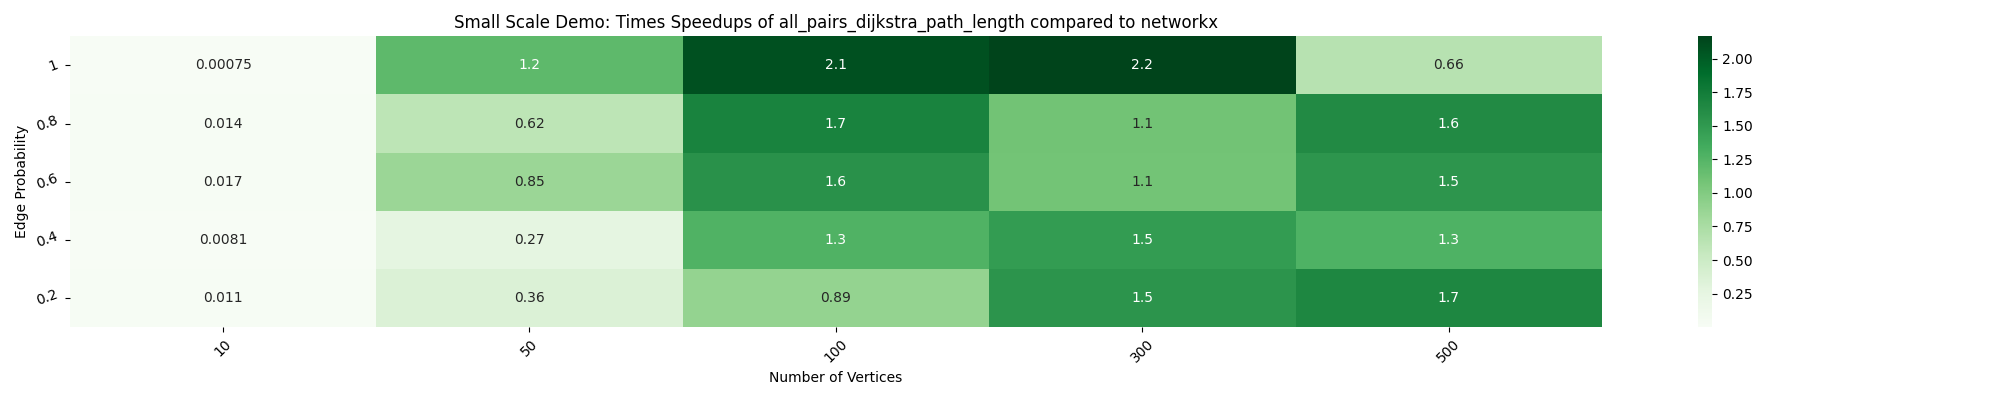
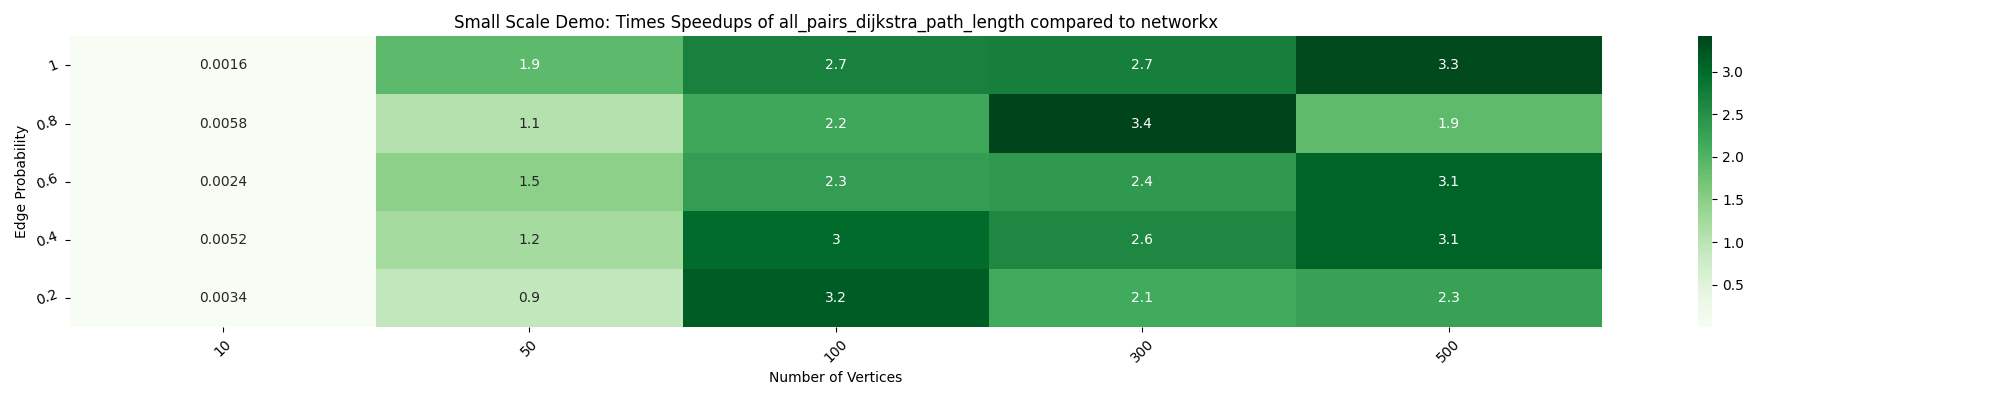
added chunking in all_pairs_node_connectivity, added benchmarks, fixed an if-else statement, added and updated heatmaps(no speedups for all_pairs_shortest_path_length)

diff --git a/nx_parallel/algorithms/connectivity/connectivity.py b/nx_parallel/algorithms/connectivity/connectivity.py
@@ -7,13 +7,14 @@ from networkx.algorithms.flow import build_residual_network
 from networkx.algorithms.connectivity.utils import build_auxiliary_node_connectivity
 from networkx.algorithms.connectivity.connectivity import local_node_connectivity
 from joblib import Parallel, delayed
+import nx_parallel as nxp
 
 __all__ = [
     "all_pairs_node_connectivity",
 ]
 
 
-def all_pairs_node_connectivity(G, nbunch=None, flow_func=None):
+def all_pairs_node_connectivity(G, nbunch=None, flow_func=None, get_chunks="chunks"):
     if hasattr(G, "graph_object"):
         G = G.graph_object
 
@@ -35,17 +36,27 @@ def all_pairs_node_connectivity(G, nbunch=None, flow_func=None):
     R = build_residual_network(H, "capacity")
     kwargs = {"flow_func": flow_func, "auxiliary": H, "residual": R}
 
-    def _compute_local_node_connectivity(u, v):
-        K = local_node_connectivity(G, u, v, **kwargs)
-        return u, v, K
+    def _process_pair_chunk(pairs_chunk):
+        return [
+            (u, v, local_node_connectivity(G, u, v, **kwargs)) for u, v in pairs_chunk
+        ]
 
-    results = Parallel(n_jobs=-1)(
-        delayed(_compute_local_node_connectivity)(u, v) for u, v in iter_func(nbunch, 2)
+    pairs = list(iter_func(nbunch, 2))
+    total_cores = nxp.cpu_count()
+    if get_chunks == "chunks":
+        num_in_chunk = min(len(pairs) // total_cores, 10)
+        pairs_chunks = nxp.chunks(pairs, num_in_chunk)
+    else:
+        pairs_chunks = get_chunks(pairs)
+
+    paths_chunk_generator = (
+        delayed(_process_pair_chunk)(pairs_chunk) for pairs_chunk in pairs_chunks
     )
 
-    for u, v, K in results:
-        all_pairs[u][v] = K
-        if not directed:
-            all_pairs[v][u] = K
-
+    for path_chunk in Parallel(n_jobs=total_cores)(paths_chunk_generator):
+        for path in path_chunk:
+            u, v, k = path
+            all_pairs[u][v] = k
+            if not directed:
+                all_pairs[v][u] = k
     return all_pairs

diff --git a/nx_parallel/algorithms/shortest_paths/weighted.py b/nx_parallel/algorithms/shortest_paths/weighted.py
@@ -41,10 +41,10 @@ def all_pairs_dijkstra(G, cutoff=None, weight="weight", get_chunks="chunks"):
     total_cores = nxp.cpu_count()
 
     if get_chunks == "chunks":
-        node_chunks = get_chunks(nodes)
-    else:
         num_in_chunk = max(len(nodes) // total_cores, 1)
         node_chunks = nxp.chunks(nodes, num_in_chunk)
+    else:
+        node_chunks = get_chunks(nodes)
 
     paths_chunk_generator = (
         delayed(_process_node_chunk)(node_chunk) for node_chunk in node_chunks
@@ -82,10 +82,10 @@ def all_pairs_dijkstra_path_length(
     total_cores = nxp.cpu_count()
 
     if get_chunks == "chunks":
-        node_chunks = get_chunks(nodes)
-    else:
         num_in_chunk = max(len(nodes) // total_cores, 1)
         node_chunks = nxp.chunks(nodes, num_in_chunk)
+    else:
+        node_chunks = get_chunks(nodes)
 
     paths_chunk_generator = (
         delayed(_process_node_chunk)(node_chunk) for node_chunk in node_chunks
@@ -116,10 +116,10 @@ def all_pairs_dijkstra_path(G, cutoff=None, weight="weight", get_chunks="chunks"
     total_cores = nxp.cpu_count()
 
     if get_chunks == "chunks":
-        node_chunks = get_chunks(nodes)
-    else:
         num_in_chunk = max(len(nodes) // total_cores, 1)
         node_chunks = nxp.chunks(nodes, num_in_chunk)
+    else:
+        node_chunks = get_chunks(nodes)
 
     paths_chunk_generator = (
         delayed(_process_node_chunk)(node_chunk) for node_chunk in node_chunks
@@ -150,10 +150,10 @@ def all_pairs_bellman_ford_path_length(G, weight="weight", get_chunks="chunks"):
     total_cores = nxp.cpu_count()
 
     if get_chunks == "chunks":
-        node_chunks = get_chunks(nodes)
-    else:
         num_in_chunk = max(len(nodes) // total_cores, 1)
         node_chunks = nxp.chunks(nodes, num_in_chunk)
+    else:
+        node_chunks = get_chunks(nodes)
 
     path_lengths_chunk_generator = (
         delayed(_process_node_chunk)(node_chunk) for node_chunk in node_chunks

diff --git a/nx_parallel/algorithms/approximation/connectivity.py b/nx_parallel/algorithms/approximation/connectivity.py
@@ -2,13 +2,14 @@
 import itertools
 from joblib import Parallel, delayed
 from networkx.algorithms.approximation.connectivity import local_node_connectivity
+import nx_parallel as nxp
 
 __all__ = [
     "all_pairs_node_connectivity",
 ]
 
 
-def all_pairs_node_connectivity(G, nbunch=None, cutoff=None):
+def all_pairs_node_connectivity(G, nbunch=None, cutoff=None, get_chunks="chunks"):
     """The parallel computation is implemented by computing the
     `local_node_connectivity` for all nodes in `G`, concurrently
     on different cores.
@@ -32,17 +33,28 @@ def all_pairs_node_connectivity(G, nbunch=None, cutoff=None):
 
     all_pairs = {n: {} for n in nbunch}
 
-    def _compute_local_node_connectivity(u, v):
-        k = local_node_connectivity(G, u, v, cutoff=cutoff)
-        return u, v, k
+    def _process_pair_chunk(pairs_chunk):
+        return [
+            (u, v, local_node_connectivity(G, u, v, cutoff=cutoff))
+            for u, v in pairs_chunk
+        ]
 
-    results = Parallel(n_jobs=-1)(
-        delayed(_compute_local_node_connectivity)(u, v) for u, v in iter_func(nbunch, 2)
+    pairs = list(iter_func(nbunch, 2))
+    total_cores = nxp.cpu_count()
+    if get_chunks == "chunks":
+        num_in_chunk = min(len(pairs) // total_cores, 10)
+        pairs_chunks = nxp.chunks(pairs, num_in_chunk)
+    else:
+        pairs_chunks = get_chunks(pairs)
+
+    paths_chunk_generator = (
+        delayed(_process_pair_chunk)(pairs_chunk) for pairs_chunk in pairs_chunks
     )
 
-    for u, v, k in results:
-        all_pairs[u][v] = k
-        if not directed:
-            all_pairs[v][u] = k
-
+    for path_chunk in Parallel(n_jobs=total_cores)(paths_chunk_generator):
+        for path in path_chunk:
+            u, v, k = path
+            all_pairs[u][v] = k
+            if not directed:
+                all_pairs[v][u] = k
     return all_pairs

diff --git a/timing/timing_individual_function.py b/timing/timing_individual_function.py
@@ -13,16 +13,18 @@ import nx_parallel
 heatmapDF = pd.DataFrame()
 number_of_nodes_list = [10, 50, 100, 300, 500]
 pList = [1, 0.8, 0.6, 0.4, 0.2]
-currFun = nx.all_pairs_shortest_path_length
+weight = False
+currFun = nx.all_pairs_node_connectivity
 for p in pList:
     for num in number_of_nodes_list:
         # create original and parallel graphs
         G = nx.fast_gnp_random_graph(num, p, seed=42, directed=False)
 
         # for weighted graphs
-        random.seed(42)
-        for u, v in G.edges():
-            G[u][v]["weight"] = random.random()
+        if weight:
+            random.seed(42)
+            for u, v in G.edges():
+                G[u][v]["weight"] = random.random()
 
         H = nx_parallel.ParallelGraph(G)
 
@@ -41,6 +43,7 @@ for p in pList:
         stdTime = t2 - t1
         timesFaster = stdTime / parallelTime
         heatmapDF.at[num, p] = timesFaster
+        # print(num, p, timesFaster)
         print("Finished " + str(currFun))
 
 # Code to create for row of heatmap specifically for tournaments

diff --git a/nx_parallel/algorithms/shortest_paths/unweighted.py b/nx_parallel/algorithms/shortest_paths/unweighted.py
@@ -34,10 +34,10 @@ def all_pairs_shortest_path_length(G, cutoff=None, get_chunks="chunks"):
     total_cores = nxp.cpu_count()
 
     if get_chunks == "chunks":
-        node_chunks = get_chunks(nodes)
-    else:
         num_in_chunk = max(len(nodes) // total_cores, 1)
         node_chunks = nxp.chunks(nodes, num_in_chunk)
+    else:
+        node_chunks = get_chunks(nodes)
 
     path_lengths_chunk_generator = (
         delayed(_process_node_chunk)(node_chunk) for node_chunk in node_chunks
@@ -69,10 +69,10 @@ def all_pairs_shortest_path(G, cutoff=None, get_chunks="chunks"):
     total_cores = nxp.cpu_count()
 
     if get_chunks == "chunks":
-        node_chunks = get_chunks(nodes)
-    else:
         num_in_chunk = max(len(nodes) // total_cores, 1)
         node_chunks = nxp.chunks(nodes, num_in_chunk)
+    else:
+        node_chunks = get_chunks(nodes)
 
     paths_chunk_generator = (
         delayed(_process_node_chunk)(node_chunk) for node_chunk in node_chunks

diff --git a/benchmarks/benchmarks/bench_connectivity.py b/benchmarks/benchmarks/bench_connectivity.py
@@ -13,10 +13,8 @@ class Connectivity(Benchmark):
     params = [(backends), (num_nodes), (edge_prob)]
     param_names = ["backend", "num_nodes", "edge_prob"]
 
-    def time_approximate_all_pairs_node_connectivity(
-        self, backend, num_nodes, edge_prob
-    ):
+    def time_all_pairs_node_connectivity(self, backend, num_nodes, edge_prob):
         G = get_cached_gnp_random_graph(num_nodes, edge_prob)
         if backend == "parallel":
             G = nxp.ParallelGraph(G)
-        _ = nx.algorithms.approximation.connectivity.all_pairs_node_connectivity(G)
+        _ = nx.algorithms.connectivity.connectivity.all_pairs_node_connectivity(G)

diff --git a/benchmarks/benchmarks/bench_shortest_paths.py b/benchmarks/benchmarks/bench_shortest_paths.py
@@ -8,6 +8,15 @@ from .common import (
 import networkx as nx
 
 
+class Generic(Benchmark):
+    params = [(backends), (num_nodes), (edge_prob)]
+    param_names = ["backend", "num_nodes", "edge_prob"]
+
+    def time_all_pairs_all_shortest_paths(self, backend, num_nodes, edge_prob):
+        G = get_cached_gnp_random_graph(num_nodes, edge_prob, is_weighted=True)
+        _ = dict(nx.all_pairs_all_shortest_paths(G, weight="weight", backend=backend))
+
+
 class Unweighted(Benchmark):
     params = [(backends), (num_nodes), (edge_prob)]
     param_names = ["backend", "num_nodes", "edge_prob"]

diff --git a/nx_parallel/algorithms/shortest_paths/generic.py b/nx_parallel/algorithms/shortest_paths/generic.py
@@ -38,10 +38,10 @@ def all_pairs_all_shortest_paths(
     total_cores = nxp.cpu_count()
 
     if get_chunks == "chunks":
-        node_chunks = get_chunks(nodes)
-    else:
         num_in_chunk = max(len(nodes) // total_cores, 1)
         node_chunks = nxp.chunks(nodes, num_in_chunk)
+    else:
+        node_chunks = get_chunks(nodes)
 
     paths_chunk_generator = (
         delayed(_process_node_chunk)(node_chunk) for node_chunk in node_chunks
